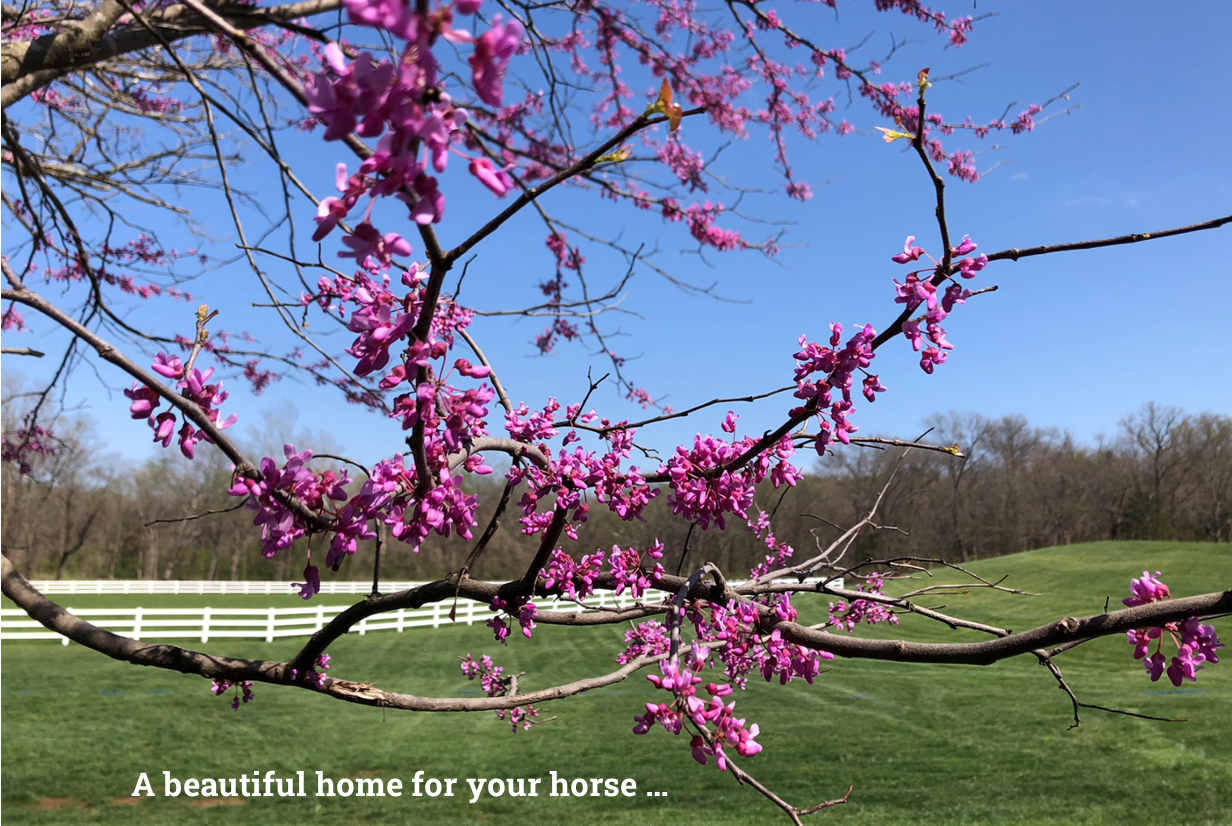
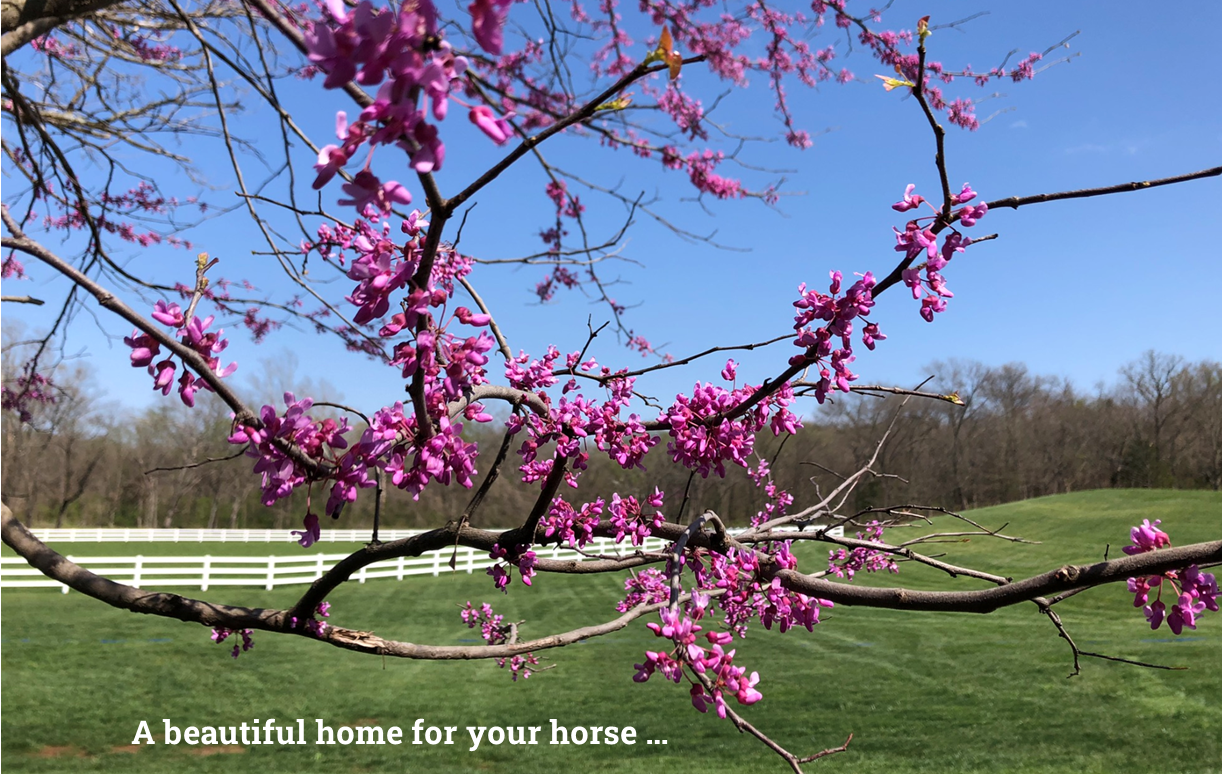
Cleaned up image files/added email/comingsoonform

diff --git a/index.html b/index.html
@@ -552,6 +552,10 @@ html,body,h1,h2,h3,h4 {font-family:"Lato", sans-serif}
   </div>
 </div>
 
+ <div class="w3-half w3-margin-bottom">
+  <p>Right click to view a larger image in a new tab.</p>
+ </div>
+
 </div>
 </div>
 </div>
@@ -620,9 +624,8 @@ html,body,h1,h2,h3,h4 {font-family:"Lato", sans-serif}
   </div>
 </div>
   <!-- Contact Form --  NEED TO FIGURE OUT HOW TO SEND IT TO AN EMAIL ADDRESS-->
-  <div class="w3-center w3-padding-64" id="contact">
-    <span class="w3-xlarge w3-bottombar w3-border-blue-grey w3-padding-16">Contact Us 
-      to Schedule a Visit</span>
+  <div class="w3-center w3-padding-48" id="contact">
+    <span class="w3-xlarge w3-bottombar w3-border-blue-grey w3-padding-16">Coming soon: A working contact form to schedule a visit</span>
   </div>
   <!-- <form class="w3-container" action="mailto:recipient@example.com" method="get" enctype="text/plain"> -->
   <form class="w3-container" action="/action_page.php" target="_blank">
@@ -648,7 +651,7 @@ html,body,h1,h2,h3,h4 {font-family:"Lato", sans-serif}
     </div>
 
     <div class="w3-center">
-      <button type="submit" class="w3-button w3-round-large w3-xlarge w3-black w3-hover-blue-gray">Send</button>
+      <button type="submit" class="w3-button w3-round-large w3-large w3-black w3-hover-blue-gray">Send</button>
     </div>
   </form>
 
@@ -656,10 +659,11 @@ html,body,h1,h2,h3,h4 {font-family:"Lato", sans-serif}
 
 <!-- Footer -->
 
-<footer class="w3-container w3-padding-16 w3-light-grey w3-center">
+<footer class="w3-container w3-padding-16 w3-center">
   <img src="./assets/images/HTF_Black.png" alt="Logo for horse pasture at Hidden Timber Farm"  style="width:8%">
   <h4>Hidden Timber Farm LLC </h4>
   <h4>Gardner, KS 66030</h4>
+  <h5>hiddentimberfarm@gmail.com</h5>
   <a href="#" class="w3-button w3-round-large w3-blue-grey w3-margin"><i class="fa fa-arrow-up w3-margin-right"></i>To the top</a>
   <!-- <div class="w3-xlarge w3-section">
     <i class="fa fa-facebook-official w3-hover-opacity"></i>
